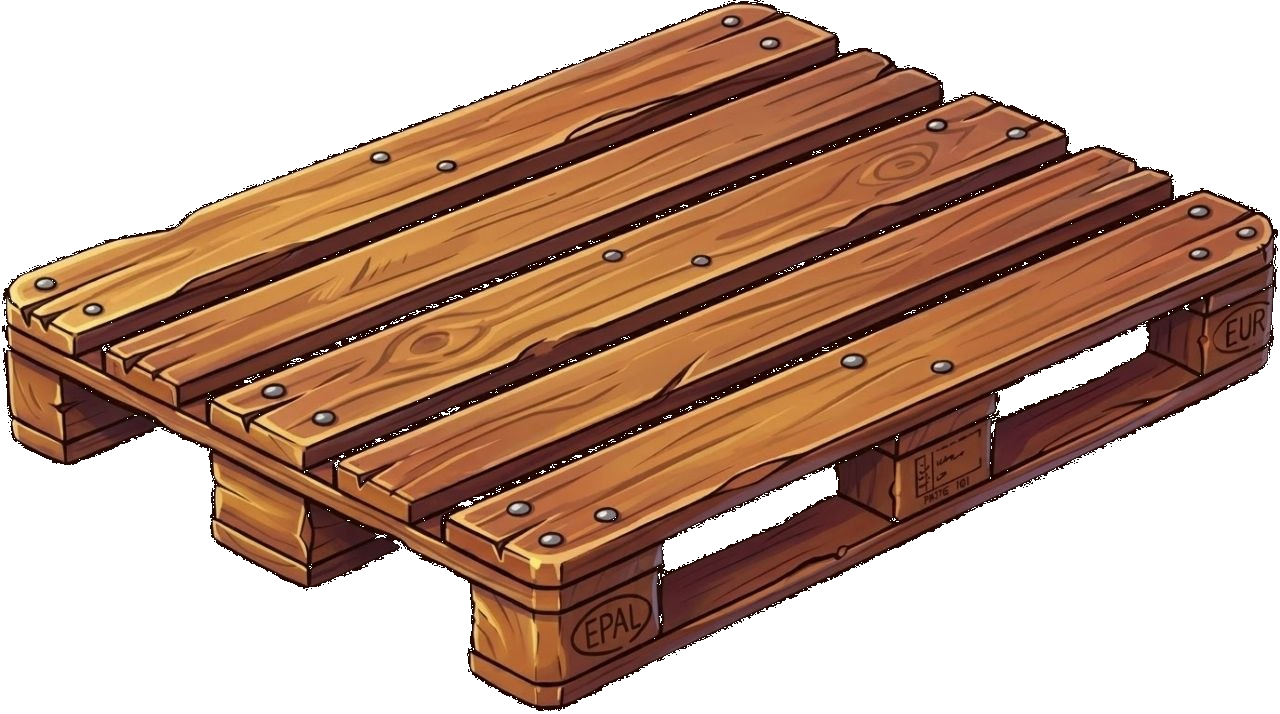
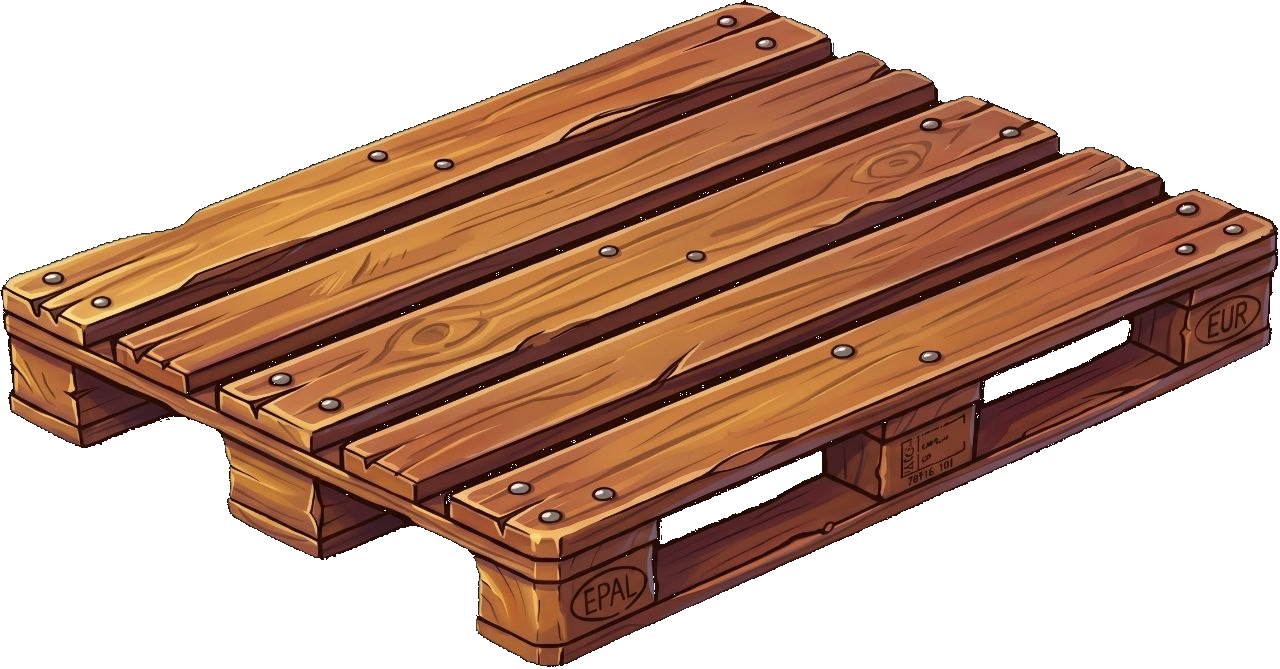
Replace pallet sprite with updated EPAL art.

diff --git a/02-sklad/index.html b/02-sklad/index.html
@@ -8,9 +8,9 @@
     <title>Склад</title>
     <meta name="theme-color" content="#14110d" />
     <meta name="apple-mobile-web-app-capable" content="yes" />
-    <link rel="manifest" href="manifest.json?v=148" />
+    <link rel="manifest" href="manifest.json?v=149" />
     <link rel="icon" href="../icon.svg" type="image/svg+xml" />
-    <link rel="stylesheet" href="style.css?v=148" />
+    <link rel="stylesheet" href="style.css?v=149" />
   </head>
   <body>
     <div class="scene" aria-hidden="true">
@@ -216,6 +216,6 @@
       </div>
     </div>
 
-    <script src="game.js?v=148"></script>
+    <script src="game.js?v=149"></script>
   </body>
 </html>

diff --git a/02-sklad/game.js b/02-sklad/game.js
@@ -1116,8 +1116,8 @@ function palWood(name) {
   );
 }
 
-const EMPTY_PAL = "art/pal-empty.png?v=148";
-const YARD_PIC = "art/yard.jpg?v=148";
+const EMPTY_PAL = "art/pal-empty.png?v=149";
+const YARD_PIC = "art/yard.jpg?v=149";
 const ART_URLS = [
   YARD_PIC,
   EMPTY_PAL,

diff --git a/02-sklad/style.css b/02-sklad/style.css
@@ -4294,7 +4294,7 @@ body.iso-yard .inside.yard-locked {
 
 body.iso-yard .inside-pic {
   background:
-    url("art/yard.jpg?v=148") center center / 100% 100% no-repeat,
+    url("art/yard.jpg?v=149") center center / 100% 100% no-repeat,
     #c4b48c;
 }
 
